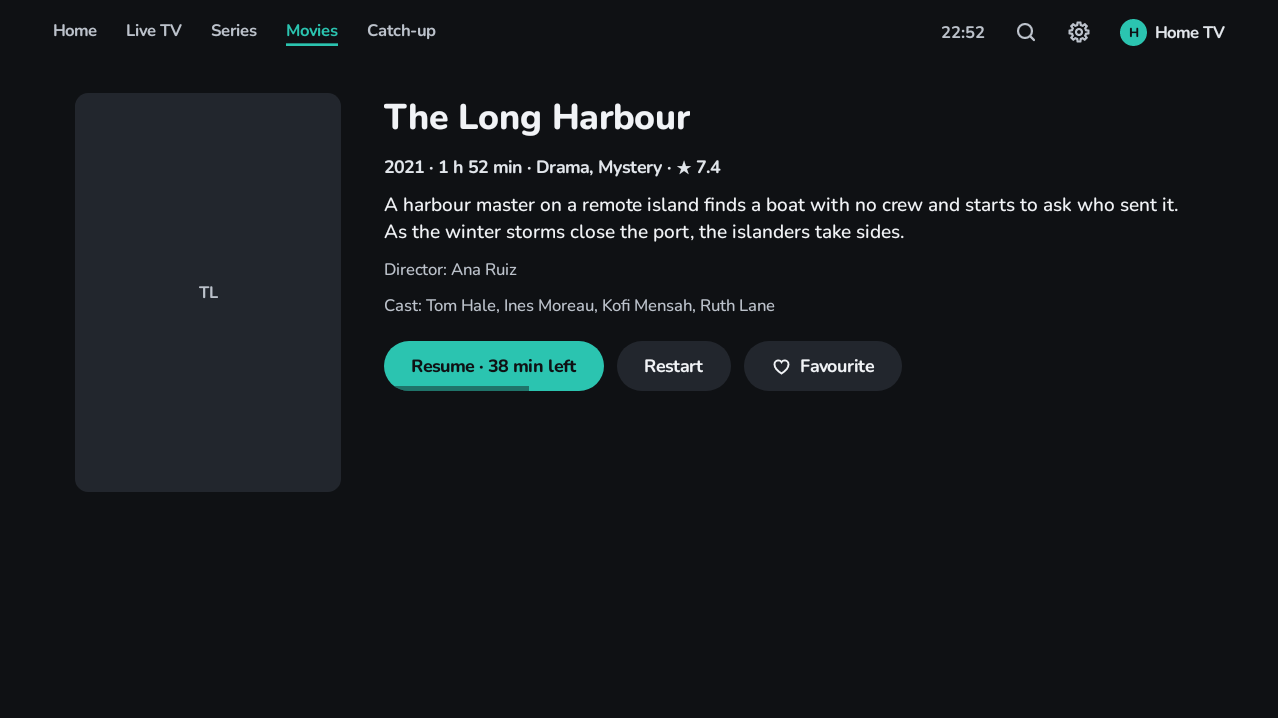
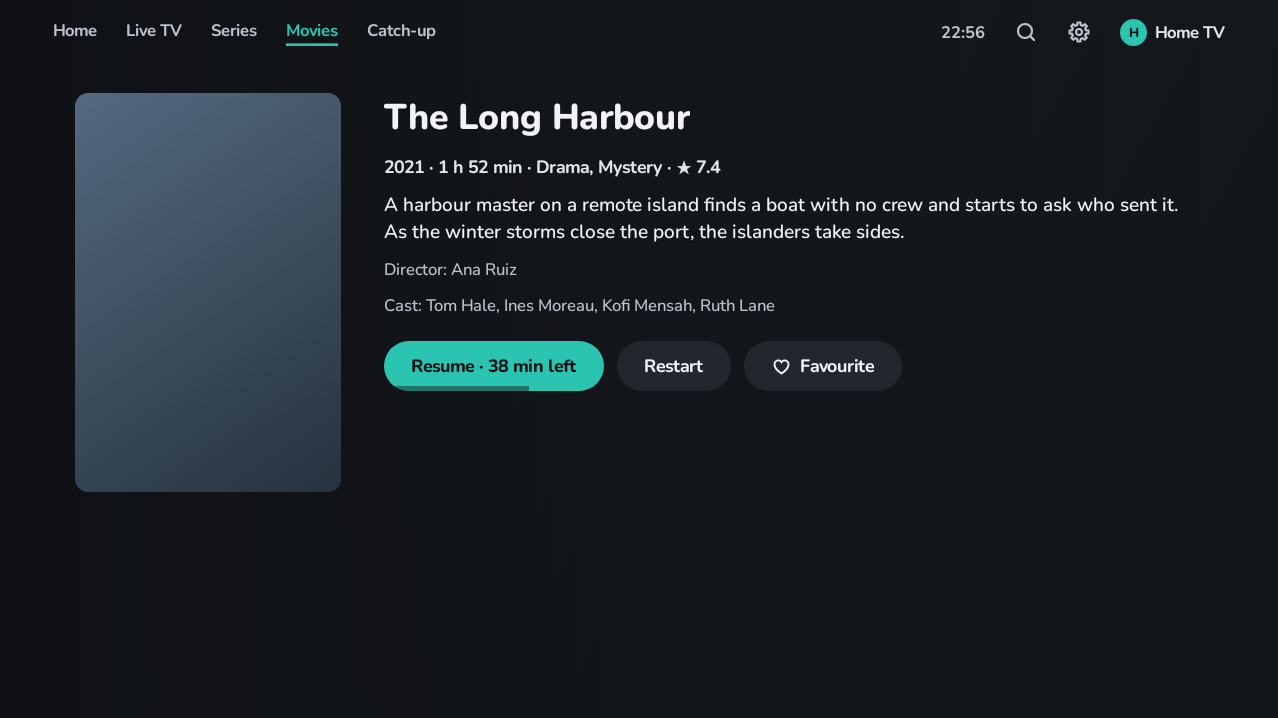
Screenshot test: wait for the poster before each detail page capture
In a busy full test run, DetailPagesScreenshotTest recorded the film
page before its poster and backdrop loaded (the poster showed its
initials, "TL"). It now waits until the poster no longer shows its
initials, as StoreAssetsTest already does. The four redesign
screenshots are recorded again with their pictures.

Claude-Session: https://claude.ai/code/session_01XanGeKN99Wd1hmQc73eoBg

Changed region(s): [[0.061, 0.1226, 0.2746, 0.7047]]

diff --git a/app/src/test/java/com/biskyt/mytvplayer/ui/DetailPagesScreenshotTest.kt b/app/src/test/java/com/biskyt/mytvplayer/ui/DetailPagesScreenshotTest.kt
@@ -30,6 +30,7 @@ import com.biskyt.mytvplayer.testutil.createUiComposeRule
 import com.biskyt.mytvplayer.testutil.focusedText
 import com.biskyt.mytvplayer.testutil.waitAdvancingClock
 import com.biskyt.mytvplayer.testutil.waitForText
+import com.biskyt.mytvplayer.ui.common.initials
 import com.biskyt.mytvplayer.ui.theme.MyTvTheme
 import com.biskyt.mytvplayer.ui.theme.Palette
 import com.github.takahirom.roborazzi.captureRoboImage
@@ -117,6 +118,7 @@ class DetailPagesScreenshotTest {
         val favourite = compose.onNode(hasText("Favourite") and hasClickAction()).assertIsDisplayed().getBoundsInRoot()
         assertEquals((favourite.bottom - favourite.top).value, (resume.bottom - resume.top).value, 1f)
         assertTrue(resume.right < favourite.left)
+        waitForPoster("The Long Harbour")
         compose.onRoot().captureRoboImage("screenshots/redesign-film.png")
     }
 
@@ -159,8 +161,16 @@ class DetailPagesScreenshotTest {
         assertTrue(heart.positionInRoot.x > resume.positionInRoot.x + resume.size.width)
         val bottom = heart.positionInRoot.y + heart.size.height
         assertTrue("The heart ends at $bottom px, the screen at $screen px", bottom <= screen)
+        waitForPoster("Kitchen Masters USA")
         compose.onRoot().captureRoboImage(file)
     }
+
+    /**
+     * Pictures load in the background: waits until [title]'s poster no longer shows its initials, so the screenshot
+     * has it (without this, a busy run recorded the film page with no poster or backdrop).
+     */
+    private fun waitForPoster(title: String) =
+        compose.waitAdvancingClock(stepMs = 50) { compose.onAllNodes(hasText(initials(title))).fetchSemanticsNodes().isEmpty() }
 
     private companion object {
         const val MIN = 60_000L
